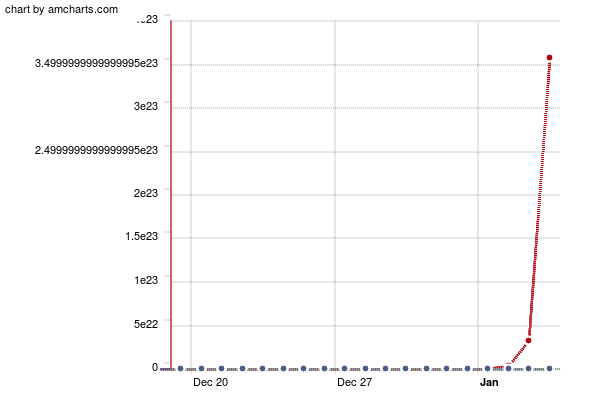
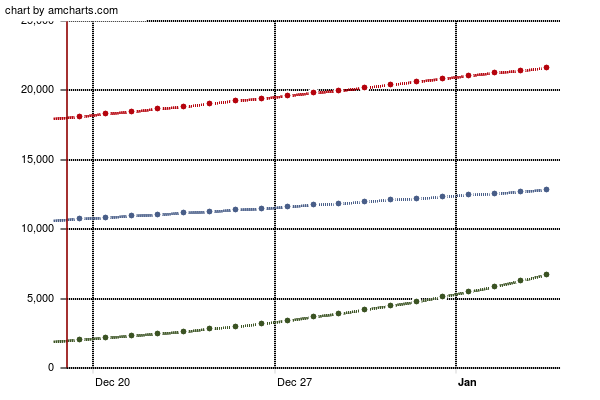
random starting values

Changed region(s): [[0.0, 0.0, 0.93, 0.99], [0.54, 0.15, 0.57, 0.18]]

diff --git a/public/javascripts/interest.js b/public/javascripts/interest.js
@@ -4,9 +4,15 @@ var investments = [];
 var chartData = [];
 
 // default data
-investments.push({p: 10000, i: 0.05});
-investments.push({p: 5000, i: 0.09});
-investments.push({p: 12750, i: 0.06});
+var principal, interest;
+for (var i = 0; i < 3; i ++) {
+	var investment = new Object();
+	principal = Math.floor (Math.random () * 20000);
+	interest = Math.floor (Math.random () * 10) / 100;
+	investment.p = principal;
+	investment.i = interest;
+	investments.push (investment);
+}
 
 AmCharts.ready(function () {
 
